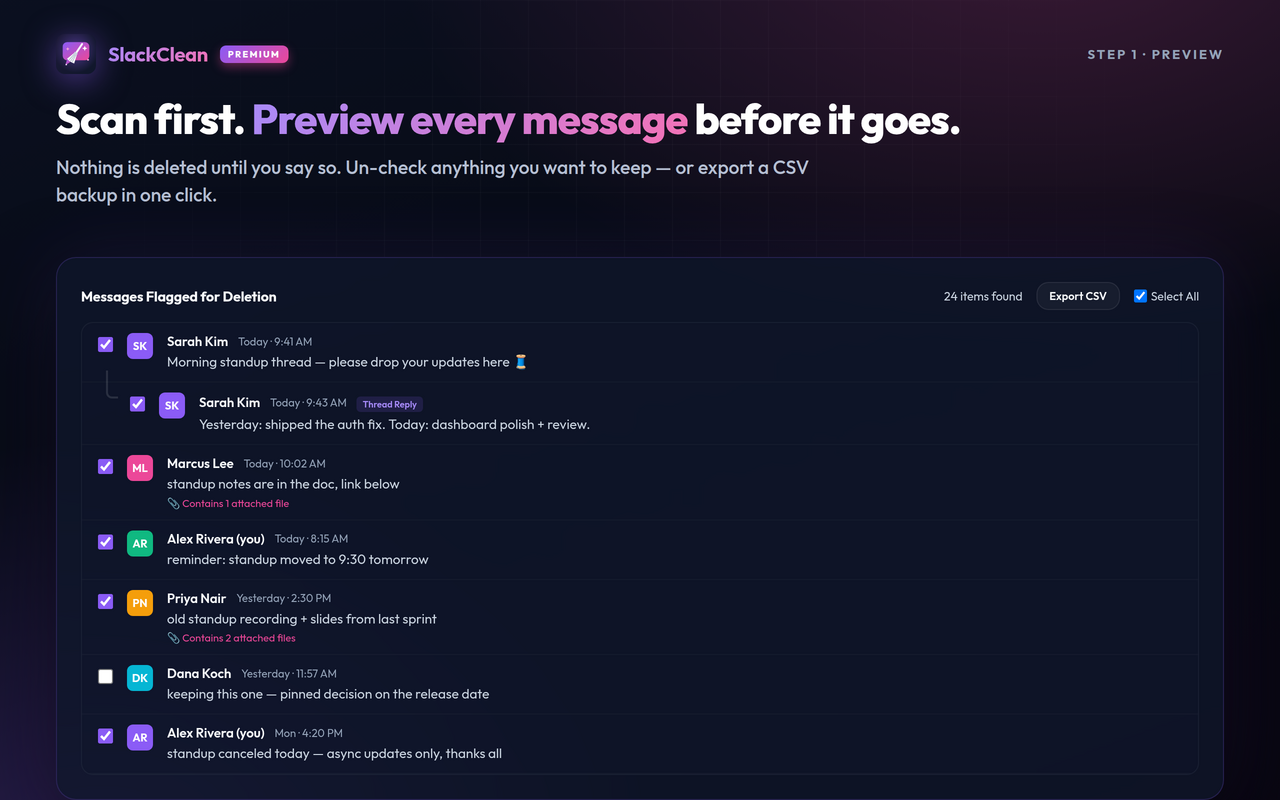
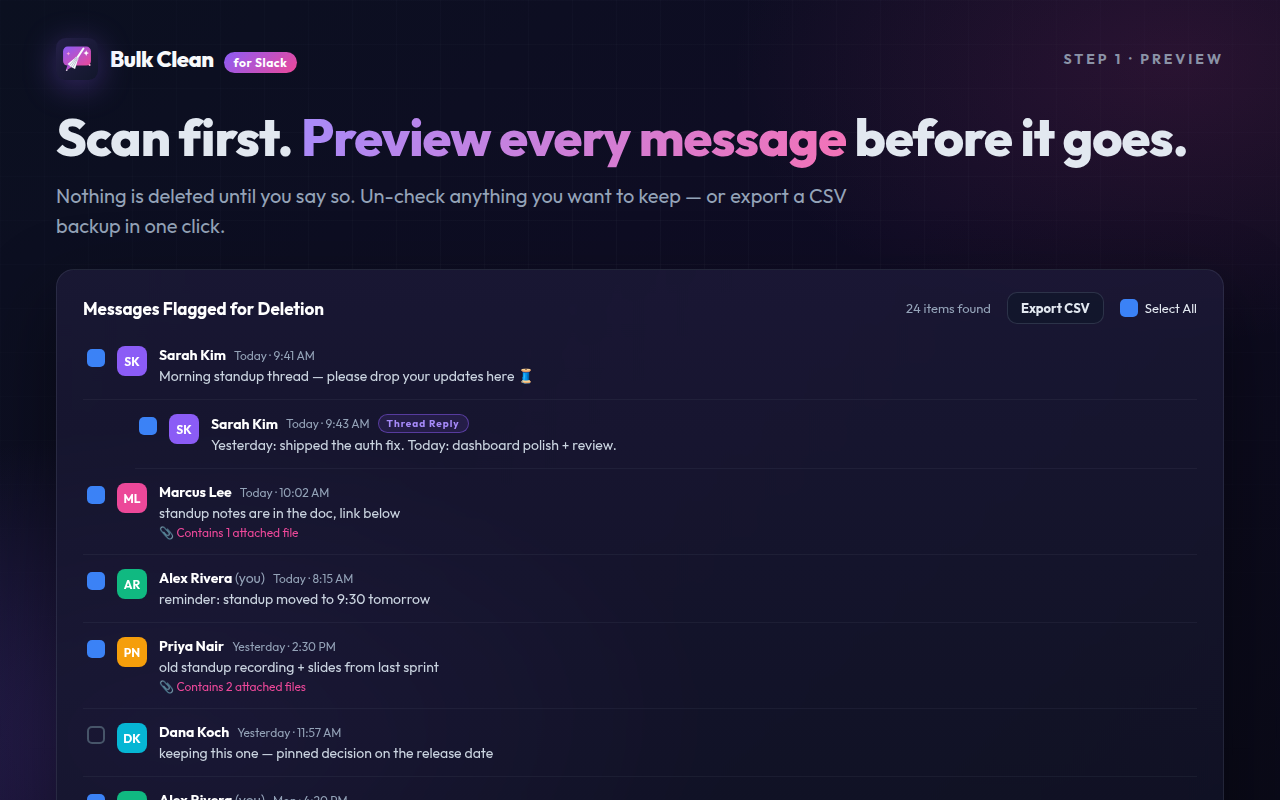
Re-capture store screenshots as 'Bulk Clean for Slack'; update CHANGELOG
All five 1280x800 store screenshots rebuilt with the new branding, plus a portable generator (store-assets/screenshots/src/gen.js) to regenerate them. CHANGELOG documents the fifth functional pass, the Firefox split, and the rename/store-prep work.

diff --git a/store-assets/screenshots/src/gen.js b/store-assets/screenshots/src/gen.js
@@ -1,0 +1,251 @@
+// Generates the 5 store-screenshot compositions (1280x800) with "Bulk Clean for Slack"
+// branding. Faithful recreation of the originals (marketing mockups), using the
+// product's own Outfit font (inlined) so it renders offline.
+const fs = require('fs');
+const path = require('path');
+
+// Regenerate the store screenshots after a branding/content change:
+//   node store-assets/screenshots/src/gen.js      # writes the 5 HTML files here
+//   for s in 01-overview 02-preview 03-safety 04-progress 05-privacy; do \
+//     google-chrome --headless=new --no-sandbox --hide-scrollbars \
+//       --force-device-scale-factor=1 --window-size=1280,800 \
+//       --screenshot="store-assets/screenshots/$s.png" \
+//       "file://$PWD/store-assets/screenshots/src/$s.html"; done
+const ROOT = path.resolve(__dirname, '../../..'); // repo root
+const OUT = __dirname;
+const fontB64 = fs.readFileSync(path.join(ROOT, 'fonts/outfit-variable.woff2')).toString('base64');
+
+// Logo mark (broom + speech bubble), reused from icons/icon.svg, sized via viewBox.
+const LOGO = (size) => `
+<svg width="${size}" height="${size}" viewBox="0 0 512 512" style="flex:0 0 auto;filter:drop-shadow(0 6px 16px rgba(139,92,246,.35))">
+  <defs>
+    <linearGradient id="bub" x1="0" y1="0" x2="1" y2="1"><stop offset="0" stop-color="#8B5CF6"/><stop offset="1" stop-color="#EC4899"/></linearGradient>
+    <linearGradient id="tl" x1="0" y1="0" x2="1" y2="1"><stop offset="0" stop-color="#241F47"/><stop offset="1" stop-color="#12172B"/></linearGradient>
+  </defs>
+  <rect width="512" height="512" rx="118" fill="url(#tl)"/>
+  <rect x="86" y="104" width="340" height="232" rx="56" fill="url(#bub)"/>
+  <path d="M150 300 L118 402 L236 322 Z" fill="url(#bub)"/>
+  <g transform="rotate(34 256 232) translate(6 -6)">
+    <rect x="245" y="96" width="24" height="150" rx="12" fill="#F8FAFC"/>
+    <rect x="234" y="240" width="46" height="26" rx="9" fill="#CBD5E1"/>
+    <path d="M234 266 H280 L312 372 Q257 386 202 372 Z" fill="#F8FAFC"/>
+    <g stroke="#94A3B8" stroke-width="7" stroke-linecap="round"><line x1="245" y1="272" x2="233" y2="368"/><line x1="257" y1="272" x2="257" y2="372"/><line x1="269" y1="272" x2="281" y2="368"/></g>
+  </g>
+  <path d="M368 150 l10 24 24 10 -24 10 -10 24 -10 -24 -24 -10 24 -10 Z" fill="#fff"/>
+  <path d="M150 168 l7 16 16 7 -16 7 -7 16 -7 -16 -16 -7 16 -7 Z" fill="#F9A8D4"/>
+  <circle cx="410" cy="330" r="12" fill="#F9A8D4"/><circle cx="132" cy="392" r="9" fill="#fff" opacity=".9"/>
+</svg>`;
+
+const brand = (nameSize, badgeSize) => `
+<span style="display:inline-flex;align-items:center;gap:12px">
+  ${LOGO(nameSize + 20)}
+  <span style="display:inline-flex;align-items:baseline;gap:10px">
+    <span style="font-weight:800;font-size:${nameSize}px;color:#F8FAFC;letter-spacing:-.5px">Bulk Clean</span>
+    <span style="font-size:${badgeSize}px;font-weight:700;letter-spacing:.5px;padding:3px 10px;border-radius:999px;background:linear-gradient(135deg,#8b5cf6,#ec4899);color:#fff">for Slack</span>
+  </span>
+</span>`;
+
+const CSS = `
+@font-face{font-family:'Outfit';src:url(data:font/woff2;base64,${fontB64}) format('woff2');font-weight:100 900;font-display:block}
+*{box-sizing:border-box;margin:0;padding:0}
+html,body{width:1280px;height:800px;overflow:hidden}
+body{font-family:'Outfit',-apple-system,'DejaVu Sans',sans-serif;color:#e2e8f0;
+  background:
+    radial-gradient(60% 55% at 14% 92%, rgba(139,92,246,.22), transparent 70%),
+    radial-gradient(50% 50% at 92% 8%, rgba(236,72,153,.12), transparent 70%),
+    linear-gradient(135deg,#0b1020 0%,#0f0c24 55%,#0a0a18 100%);
+  position:relative}
+.grid{position:absolute;inset:0;background-image:
+  linear-gradient(rgba(148,163,184,.045) 1px,transparent 1px),
+  linear-gradient(90deg,rgba(148,163,184,.045) 1px,transparent 1px);
+  background-size:44px 44px;-webkit-mask-image:radial-gradient(90% 80% at 50% 30%,#000,transparent)}
+.page{position:relative;padding:38px 56px 0}
+.top{display:flex;justify-content:space-between;align-items:center}
+.tag{font-size:14px;font-weight:700;letter-spacing:3px;color:#8b93a7;text-transform:uppercase}
+h1{font-size:52px;line-height:1.06;font-weight:800;letter-spacing:-1px;margin-top:30px}
+.a{background:linear-gradient(120deg,#a78bfa,#f472b6);-webkit-background-clip:text;background-clip:text;color:transparent}
+.sub{font-size:20px;line-height:1.5;color:#94a3b8;max-width:820px;margin-top:16px;font-weight:400}
+.card{background:linear-gradient(180deg,rgba(30,27,58,.72),rgba(17,20,38,.72));border:1px solid rgba(148,163,184,.14);
+  border-radius:18px;box-shadow:0 30px 80px rgba(0,0,0,.45);backdrop-filter:blur(6px)}
+.pill{display:inline-flex;align-items:center;gap:8px;font-size:15px;font-weight:600;color:#cbd5e1;
+  background:rgba(15,23,42,.7);border:1px solid rgba(148,163,184,.16);border-radius:999px;padding:9px 16px}
+.panelTitle{font-size:16px;font-weight:700;color:#fff;display:flex;align-items:center;gap:9px}
+.panelTitle::before{content:"";width:4px;height:16px;border-radius:2px;background:linear-gradient(#8b5cf6,#ec4899)}
+.lbl{color:#94a3b8;font-size:14px}.val{color:#f1f5f9;font-size:14px;font-weight:700}
+.row{display:flex;justify-content:space-between;align-items:center;padding:9px 0}
+.field label{display:block;color:#94a3b8;font-size:13px;margin-bottom:6px}
+.field .inp{background:rgba(15,23,42,.65);border:1px solid rgba(148,163,184,.18);border-radius:10px;padding:11px 13px;font-size:14px;color:#e2e8f0}
+.badge2{font-size:11px;font-weight:700;letter-spacing:1px;color:#a78bfa;border:1px solid rgba(139,92,246,.5);background:rgba(139,92,246,.12);padding:5px 10px;border-radius:999px}
+.tog{width:46px;height:26px;border-radius:999px;position:relative;flex:0 0 auto}
+.tog i{position:absolute;top:3px;width:20px;height:20px;border-radius:50%;background:#fff}
+.tog.on{background:linear-gradient(135deg,#8b5cf6,#ec4899)}.tog.on i{right:3px}
+.tog.off{background:#334155}.tog.off i{left:3px}
+.btn{font-size:15px;font-weight:700;border-radius:10px;padding:11px 20px;border:1px solid transparent}
+.btn.ghost{background:rgba(15,23,42,.6);border-color:rgba(148,163,184,.2);color:#e2e8f0}
+.btn.grad{background:linear-gradient(135deg,#8b5cf6,#ec4899);color:#fff}
+.btn.red{background:#ef4444;color:#fff}
+.av{width:30px;height:30px;border-radius:8px;display:flex;align-items:center;justify-content:center;font-size:12px;font-weight:700;color:#fff;flex:0 0 auto}
+.chk{width:18px;height:18px;border-radius:5px;flex:0 0 auto}
+.chk.on{background:#3b82f6}.chk.off{background:transparent;border:2px solid #475569}
+code,.mono{font-family:'DejaVu Sans Mono',monospace}
+`;
+
+const page = (bodyInner) => `<!doctype html><html><head><meta charset="utf-8"><style>${CSS}</style></head>
+<body><div class="grid"></div><div class="page">${bodyInner}</div></body></html>`;
+
+const head = (tag, h1html, sub) => `
+<div class="top">${brand(22,12)}${tag?`<div class="tag">${tag}</div>`:'<div></div>'}</div>
+<h1>${h1html}</h1><div class="sub">${sub}</div>`;
+
+// ---------- Slide 1: overview ----------
+const s1 = page(head('',
+  `Bulk-clean your Slack —<br><span class="a">with surgical control.</span>`,
+  `Filter by sender, date, keyword, threads and attachments. Then delete in bulk — from any channel, group, or DM.`) + `
+<div class="card" style="margin-top:30px;padding:26px 30px">
+  <div style="display:grid;grid-template-columns:1fr 1fr;gap:40px">
+    <div>
+      <div class="panelTitle">Session Connection</div>
+      <div style="margin-top:14px">
+        <div class="row"><span class="lbl">Workspace Name</span><span class="val">Acme Corp</span></div>
+        <div class="row"><span class="lbl">Workspace URL</span><span class="val">acme.slack.com</span></div>
+        <div class="row"><span class="lbl">User ID</span><span class="val">U04ACME9Z</span></div>
+        <div class="row"><span class="lbl">Mode</span><span class="val">Safe · Single-Channel</span></div>
+        <div class="row"><span class="lbl">Local Protection</span><span class="badge2">CURRENT CHAT SCOPE</span></div>
+      </div>
+    </div>
+    <div>
+      <div class="panelTitle">Deletion Filter Matrix</div>
+      <div style="display:grid;grid-template-columns:1fr 1fr;gap:14px;margin-top:14px">
+        <div class="field"><label>Sender Profile</label><div class="inp">Only My Messages ▾</div></div>
+        <div class="field"><label>Date Threshold</label><div class="inp">Older than X days ▾</div></div>
+        <div class="field"><label>Text Match (Optional)</label><div class="inp">standup</div></div>
+        <div class="field"><label>Days Old Threshold</label><div class="inp">30</div></div>
+      </div>
+      <div class="row" style="margin-top:8px"><div><div style="color:#fff;font-weight:600;font-size:14px">Include Thread Replies</div><div style="color:#94a3b8;font-size:12px">Scan and delete messages inside threads</div></div><span class="tog on"><i></i></span></div>
+      <div class="row"><div><div style="color:#fff;font-weight:600;font-size:14px">Only Delete Attachments</div><div style="color:#94a3b8;font-size:12px">Deletes files/images but preserves message text</div></div><span class="tog off"><i></i></span></div>
+    </div>
+  </div>
+  <div style="display:flex;justify-content:space-between;align-items:center;margin-top:22px;padding-top:20px;border-top:1px solid rgba(148,163,184,.12)">
+    <div><div style="font-weight:700;color:#fff;font-size:16px">#project-phoenix</div><div style="color:#94a3b8;font-size:13px">Public channel · targeting your messages older than 30 days matching "standup".</div></div>
+    <div style="display:flex;gap:12px"><span class="btn ghost">Scan Messages</span><span class="btn grad">Start Deleting</span></div>
+  </div>
+</div>`);
+
+// ---------- Slide 2: preview ----------
+const msg = (color,ini,name,you,time,text,extra,checked,thread) => `
+<div style="display:flex;gap:12px;align-items:flex-start;padding:14px 4px;border-bottom:1px solid rgba(148,163,184,.08);${thread?'margin-left:52px;':''}">
+  <span class="chk ${checked?'on':'off'}" style="margin-top:3px"></span>
+  <span class="av" style="background:${color}">${ini}</span>
+  <div>
+    <div style="display:flex;align-items:center;gap:8px"><span style="font-weight:700;color:#fff;font-size:14px">${name}${you?' <span style=\"color:#94a3b8;font-weight:400\">(you)</span>':''}</span><span style="color:#94a3b8;font-size:12px">${time}</span>${thread?'<span class="badge2" style="font-size:10px;padding:2px 8px">Thread Reply</span>':''}</div>
+    <div style="color:#cbd5e1;font-size:14px;margin-top:3px">${text}</div>
+    ${extra?`<div style="color:#ec4899;font-size:12px;margin-top:3px">📎 ${extra}</div>`:''}
+  </div>
+</div>`;
+const s2 = page(head('Step 1 · Preview',
+  `Scan first. <span class="a">Preview every message</span> before it goes.`,
+  `Nothing is deleted until you say so. Un-check anything you want to keep — or export a CSV backup in one click.`) + `
+<div class="card" style="margin-top:28px;padding:22px 26px">
+  <div style="display:flex;justify-content:space-between;align-items:center">
+    <div style="font-weight:700;color:#fff;font-size:17px">Messages Flagged for Deletion</div>
+    <div style="display:flex;align-items:center;gap:16px;font-size:13px;color:#94a3b8">
+      <span>24 items found</span><span class="btn ghost" style="padding:7px 13px;font-size:13px">Export CSV</span>
+      <span style="display:inline-flex;align-items:center;gap:7px;color:#e2e8f0"><span class="chk on"></span>Select All</span>
+    </div>
+  </div>
+  <div style="margin-top:8px">
+    ${msg('#8B5CF6','SK','Sarah Kim',false,'Today · 9:41 AM','Morning standup thread — please drop your updates here 🧵','',true,false)}
+    ${msg('#8B5CF6','SK','Sarah Kim',false,'Today · 9:43 AM','Yesterday: shipped the auth fix. Today: dashboard polish + review.','',true,true)}
+    ${msg('#EC4899','ML','Marcus Lee',false,'Today · 10:02 AM','standup notes are in the doc, link below','Contains 1 attached file',true,false)}
+    ${msg('#10B981','AR','Alex Rivera',true,'Today · 8:15 AM','reminder: standup moved to 9:30 tomorrow','',true,false)}
+    ${msg('#F59E0B','PN','Priya Nair',false,'Yesterday · 2:30 PM','old standup recording + slides from last sprint','Contains 2 attached files',true,false)}
+    ${msg('#06B6D4','DK','Dana Koch',false,'Yesterday · 11:57 AM','keeping this one — pinned decision on the release date','',false,false)}
+    ${msg('#10B981','AR','Alex Rivera',true,'Mon · 4:20 PM','standup canceled today — async updates only, thanks all','',true,false)}
+  </div>
+</div>`);
+
+// ---------- Slide 3: safety ----------
+const s3 = page(head('Safety First',
+  `Deletes are permanent — <span class="a">so we make you confirm.</span>`,
+  `Large jobs require you to type <b style="color:#fff">DELETE</b>. Every run can be paused, resumed, or cancelled, and it only ever touches the conversation you chose.`) + `
+<div style="display:flex;gap:14px;margin-top:26px">
+  <span class="pill">✅ Type-to-confirm for 100+ messages</span>
+  <span class="pill">⏸ Pause · Resume · Cancel anytime</span>
+  <span class="pill">🎯 Single-channel scope by default</span>
+</div>
+<div style="display:flex;justify-content:center;margin-top:30px">
+  <div class="card" style="width:520px;padding:28px 30px;border-color:rgba(239,68,68,.35);box-shadow:0 30px 80px rgba(239,68,68,.12)">
+    <div style="font-size:20px;font-weight:800;color:#f87171;display:flex;align-items:center;gap:10px">⚠ Critical Action Verification</div>
+    <div style="color:#cbd5e1;font-size:15px;line-height:1.5;margin-top:14px">You are about to delete more than 100 messages (<b style="color:#fff">128 messages</b>). To confirm this operation, type the word <b style="color:#fff">DELETE</b> below:</div>
+    <div class="inp mono" style="margin-top:18px;text-align:center;letter-spacing:6px;font-size:18px;color:#fff;border-color:rgba(239,68,68,.5);padding:15px">DELETE</div>
+    <div style="display:flex;justify-content:flex-end;gap:12px;margin-top:20px"><span class="btn ghost">Go Back</span><span class="btn red">Confirm Deletion</span></div>
+  </div>
+</div>`);
+
+// ---------- Slide 4: progress ----------
+const C=2*Math.PI*40, off=(C*(1-0.62)).toFixed(1);
+const logln=(c,t)=>`<div style="color:${c};padding:2px 0">${t}</div>`;
+const s4 = page(head('Step 2 · Clean',
+  `Watch it work — <span class="a">live progress &amp; logs.</span>`,
+  `Real-time progress ring, success/failure counts, and a full execution log. Automatically paces itself to respect Slack's rate limits.`) + `
+<div class="card" style="margin-top:28px;padding:22px 26px">
+  <div style="display:flex;justify-content:space-between;align-items:center;padding-bottom:18px;border-bottom:1px solid rgba(148,163,184,.12)">
+    <div><div style="font-weight:700;color:#fff;font-size:16px">🟢 Deleting from #project-phoenix</div><div style="color:#94a3b8;font-size:13px;margin-top:2px">Pacing at 1,000ms between deletes · rate-limit aware · safe to leave running.</div></div>
+    <span class="btn" style="border-color:rgba(239,68,68,.5);color:#f87171;background:rgba(239,68,68,.08)">Cancel</span>
+  </div>
+  <div style="display:grid;grid-template-columns:340px 1fr;gap:22px;margin-top:20px">
+    <div style="display:flex;align-items:center;gap:22px">
+      <svg width="120" height="120" viewBox="0 0 100 100"><circle cx="50" cy="50" r="40" stroke="rgba(255,255,255,.06)" stroke-width="9" fill="none"/><circle cx="50" cy="50" r="40" stroke="url(#pg)" stroke-width="9" fill="none" stroke-linecap="round" stroke-dasharray="${C.toFixed(1)}" stroke-dashoffset="${off}" transform="rotate(-90 50 50)"/><defs><linearGradient id="pg" x1="0" y1="0" x2="1" y2="1"><stop offset="0" stop-color="#8b5cf6"/><stop offset="1" stop-color="#ec4899"/></linearGradient></defs><text x="50" y="56" text-anchor="middle" font-size="20" font-weight="800" fill="#fff" font-family="Outfit">62%</text></svg>
+      <div>
+        <div style="font-weight:700;color:#fff;font-size:16px;margin-bottom:12px">Deleting…</div>
+        <div style="display:flex;gap:18px">
+          <div><div style="font-size:11px;color:#94a3b8;letter-spacing:1px">SUCCESS</div><div style="font-size:22px;font-weight:800;color:#10b981">79</div></div>
+          <div><div style="font-size:11px;color:#94a3b8;letter-spacing:1px">FAILED</div><div style="font-size:22px;font-weight:800;color:#ef4444">0</div></div>
+          <div><div style="font-size:11px;color:#94a3b8;letter-spacing:1px">LEFT</div><div style="font-size:22px;font-weight:800;color:#e2e8f0">49</div></div>
+        </div>
+      </div>
+    </div>
+    <div class="card" style="padding:0;background:rgba(2,6,18,.75)">
+      <div style="display:flex;justify-content:space-between;align-items:center;padding:10px 14px;border-bottom:1px solid rgba(148,163,184,.12);font-size:12px;letter-spacing:1px;color:#94a3b8">EXECUTION LOGS
+        <span style="display:flex;gap:6px">${['CLEAR','EXPORT','RUNNING'].map(x=>`<span style="border:1px solid rgba(148,163,184,.2);border-radius:6px;padding:3px 8px;font-size:11px;color:#cbd5e1">${x}</span>`).join('')}</span>
+      </div>
+      <div class="mono" style="padding:12px 14px;font-size:12.5px;line-height:1.55">
+        ${logln('#60a5fa','Bulk Clean for Slack initialized in Safe (Single-Channel) Mode.')}
+        ${logln('#60a5fa','Scan complete — 128 messages matched active filters.')}
+        ${logln('#34d399','✓ Deleted message ts=1721632841.221 (77/128)')}
+        ${logln('#34d399','✓ Deleted message ts=1721632844.007 (78/128)')}
+        ${logln('#fbbf24','⚠ Rate limit hit — backing off 12s, will auto-resume.')}
+        ${logln('#34d399','✓ Deleted message ts=1721632858.910 (79/128)')}
+        ${logln('#60a5fa','Progress saved · job will survive a browser restart.')}
+      </div>
+    </div>
+  </div>
+</div>`);
+
+// ---------- Slide 5: privacy ----------
+const feat=(ic,t,d)=>`<div style="display:flex;gap:16px;padding:16px 0;border-bottom:1px solid rgba(148,163,184,.1)"><div style="width:40px;height:40px;border-radius:10px;background:rgba(139,92,246,.14);display:flex;align-items:center;justify-content:center;font-size:19px;flex:0 0 auto">${ic}</div><div><div style="font-weight:700;color:#fff;font-size:16px">${t}</div><div style="color:#94a3b8;font-size:14px;margin-top:2px;line-height:1.45">${d}</div></div></div>`;
+const s5 = page(head('Private by Design',
+  `100% local. <span class="a">Nothing leaves your browser.</span>`,
+  `Bulk Clean for Slack runs entirely on your machine using your existing Slack login. There are no accounts, no servers, and no tracking.`) + `
+<div style="display:grid;grid-template-columns:400px 1fr;gap:40px;margin-top:30px">
+  <div class="card" style="padding:26px">
+    ${brand(22,12)}
+    <div style="margin-top:18px"><span style="display:inline-flex;align-items:center;gap:8px;font-size:13px;font-weight:700;color:#34d399;background:rgba(16,185,129,.12);border:1px solid rgba(16,185,129,.3);border-radius:999px;padding:7px 14px">🟢 Slack Web Client Detected</span></div>
+    <div style="margin-top:18px;background:rgba(15,23,42,.55);border:1px solid rgba(148,163,184,.14);border-radius:12px;padding:16px">
+      <div style="font-size:11px;letter-spacing:1.5px;color:#8b93a7">CONNECTED TO WORKSPACE</div>
+      <div style="font-size:20px;font-weight:800;color:#fff;margin-top:5px">Acme Corp</div>
+      <div style="color:#94a3b8;font-size:13px;margin-top:6px">Clean messages in channels, private groups, and direct messages.</div>
+    </div>
+    <div class="btn grad" style="display:block;text-align:center;margin-top:18px;padding:14px">Open Clean Dashboard →</div>
+  </div>
+  <div>
+    ${feat('🔒','All processing is local','Scanning and deleting happen in your browser tab — never on a remote server.')}
+    ${feat('🚫','No data sent anywhere','No analytics, no accounts, no message content uploaded. Ever.')}
+    ${feat('🔑','Uses your existing login','Works through your active Slack session — no passwords or tokens to enter.')}
+    ${feat('📄','Independent &amp; transparent','Not affiliated with Slack. Deletions are permanent and always confirmed by you.')}
+  </div>
+</div>`);
+
+const slides = {'01-overview':s1,'02-preview':s2,'03-safety':s3,'04-progress':s4,'05-privacy':s5};
+for (const [name,html] of Object.entries(slides)) fs.writeFileSync(path.join(OUT, name+'.html'), html);
+console.log('wrote', Object.keys(slides).join(', '));

diff --git a/CHANGELOG.md b/CHANGELOG.md
@@ -1,5 +1,118 @@
 # Changelog
 
+## Unreleased — Release prep: rename + store packaging
+
+Prepared the extension for Chrome Web Store and Firefox AMO submission.
+
+- **Renamed to "Bulk Clean for Slack"** (was "SlackClean Premium"). Leading with "Slack"
+  and using "Premium" (for a free MIT tool) were rejection/trademark risks; the new name
+  follows Slack's sanctioned "X for Slack" form. Applied across both manifests, `_locales`,
+  the dashboard/popup UI (header, badge → "for Slack", onboarding, titles, export
+  filenames), README, PRIVACY_POLICY, SECURITY, STORE_LISTING, `package.json`, the build
+  script, and tests. Internal identifiers (storage keys, DOM ids) were left unchanged.
+- **Project docs added:** `LICENSE` (MIT © 2026 Yogesh Bhatt), `README.md`, `SECURITY.md`,
+  `TERMS.md`, `CONTRIBUTING.md`.
+- **In-extension privacy page** `privacy.html` (styled, CSP-safe) — the popup links to it
+  instead of the raw `.md`; it ships in the package.
+- **Build pipeline:** `scripts/build.sh` (`npm run build`) produces store-ready
+  `dist/bulk-clean-for-slack-{chrome,firefox}-<version>.zip` with the correct manifest
+  per target and only runtime files. `dist/` is gitignored.
+- **Store submission aids:** `store-assets/SUBMISSION_CHECKLIST.md`, Chrome data-use
+  disclosure answers + Firefox notes in `STORE_LISTING.md`, and a 440×280 promo tile
+  (`store-assets/promo/`).
+- **Validated:** Chrome packs a valid `.crx`; `addons-linter` reports **0 errors** on the
+  Firefox zip. **52/52** unit tests green.
+- ⚠ **Follow-ups (outside code):** re-capture store screenshots (current ones show the old
+  branding), host the privacy policy at a public URL, and verify a real delete on live
+  Slack before submitting. See `store-assets/SUBMISSION_CHECKLIST.md`.
+
+## Unreleased — Fifth functional pass (ReDoS, over-select, drift, Firefox, lifecycle)
+
+Fifth audit pass (four parallel deep-traces + runnable repros). Fixes below.
+
+### High — filter safety (`shared-filters.js`)
+
+- **ReDoS guard defeated — a user regex could freeze the whole scan.** The last-line
+  quantifier-COUNT cap (`MAX_QUANTIFIERS = 10`) let sequential unbounded quantifiers
+  through: `a*a*a*…b` has no groups and no adjacent quantifiers, so it slipped every
+  structural rule, yet backtracks polynomially (degree = number of stars). Measured:
+  6 stars = 739 ms and 7 stars = 4.2 s on a 40-char run; 10 stars = a multi-minute
+  hang. Added `MAX_UNBOUNDED_QUANTIFIERS = 2` (counts `*`, `+`, open `{n,}`), which
+  rejects the chain while still accepting legitimate `\d+\.\d+`-style filters; plus a
+  `MAX_REGEX_INPUT` cap on the text a safe regex actually runs against as a backstop.
+- **A regex that matches the empty string silently selected the ENTIRE channel.**
+  `/a?/`, `/x*/`, `/^/`, `/.*/`, `/(secret)?/` all made `qualifies()` return true for
+  every message → mass over-selection from a mistyped filter. A degenerate
+  empty-matching pattern now selects **nothing** (the user sees 0 results and fixes it)
+  instead of everything.
+- **System messages that carry text were not dropped.** `channel_join` / `channel_leave`
+  / `channel_topic` etc. all have `text` ("<@U> has joined"), so the `!msg.text` drop
+  proxy leaked them into a "delete all my messages" run (inflating the fail tally, and
+  over-deleting any subtype Slack lets you delete). Now dropped by an explicit
+  `SYSTEM_MESSAGE_SUBTYPES` allowlist regardless of text; content-bearing subtypes
+  (`me_message`, `thread_broadcast`, `file_share`, …) are preserved.
+- **"me" mode failed OPEN when the user id was missing.** `undefined !== undefined`
+  let a user-less bot/integration message qualify as "mine"; now fails closed.
+
+### High — channel drift (`content.js`)
+
+- **A channel switch DURING a scan defeated the drift guard.** `activeChannel` is
+  reassigned only after an await, so a scan started in channel A that finished as the
+  user switched to B passed the "channel changed" check (it still saw A) and showed
+  A's results armed against B — dispatching a delete for B with A's timestamps, which
+  reported false "success" while A was left uncleaned. Results are now tagged with the
+  channel they were scanned in (`scanResultsChannelId`) and the guard also checks a
+  synchronously-updated `intendedChannelId`; `startDeletionProcess` refuses to dispatch
+  unless both still match the active channel.
+
+### Medium — lifecycle & robustness (`background.js`, `content.js`)
+
+- **Extension update stranded a running job + span the watchdog forever.** `onInstalled`
+  now force-pauses running jobs like `onStartup` (session storage — and the resume
+  gate — is cleared on update), so the job doesn't show "running" while never advancing.
+- **Attachment mode failed an item permanently on one file-op blip.** A transient
+  `files.info`/`files.delete` error now retries like any other transient error instead
+  of counting as an immediate permanent failure.
+- **A dropped scan response hung the UI on "Scanning…" forever.** Added a client-side
+  scan timeout that restores the UI and prompts a retry (an abandoned scan is read-only).
+- **Token-loss / session-invalidation discarded all progress.** Both fatal auth paths
+  now **pause** (preserving queue + progress) instead of deleting the job, matching the
+  "re-open to reconnect, then resume" guidance.
+- **Cancel/Close were fire-and-forget.** Both now check `chrome.runtime.lastError` and
+  tell the user to retry (rather than claiming the job stopped) if the message didn't
+  reach the worker.
+- **A stale/replaced job could destroy or resurrect a new one.** `executeQueue`'s
+  cancellation guard now compares job object identity (not mere key presence); the file
+  sub-loop re-checks before each destructive call; `handleRateLimitBackoff` no longer
+  re-persists a cancelled job.
+- **A black-holed request could pin the queue lock.** Added a `fetch` AbortController
+  timeout (surfaces as a retryable `network_error`).
+- **Wrong-workspace resolution.** `getActiveTeamInfo` now returns null (rather than
+  silently using the first workspace) when the URL names a team we have no token for.
+- **Non-numeric date bounds** are normalized to the open bound (was NaN → inconsistent
+  partial selection). `CIRCLE_CIRCUMFERENCE` uses the exact `2πr`. `popup.js` uses the
+  existing i18n key for its fallback workspace label.
+
+### Cross-browser — Firefox (`manifest.json`, new `manifest.firefox.json`)
+
+- **The extension was entirely non-functional on Firefox.** `manifest.json` advertised
+  Firefox (gecko, min 115) but declared a `service_worker` background — unsupported on
+  Firefox stable — with no `background.scripts`, so `shared-filters.js` never loaded and
+  every message handler threw. Split into two manifests: **`manifest.json` (Chromium,
+  `service_worker` + `importScripts`)** and **`manifest.firefox.json` (Firefox, event
+  page with `background.scripts: ["shared-filters.js", "background.js"]` + gecko)**. The
+  misleading in-code comments are corrected. The Firefox manifest also declares
+  `browser_specific_settings.gecko.data_collection_permissions: { required: ["none"] }`
+  (no data collected — required by AMO for new submissions).
+  **Packaging:** Chrome build → use `manifest.json`, exclude `manifest.firefox.json`.
+  Firefox (AMO) build → copy `manifest.firefox.json` to `manifest.json`, exclude the
+  Chrome `manifest.json`.
+
+`npm test` → **52/52** (5 new regression tests). Manifests validated: Chrome packs a
+valid `.crx` with no manifest error (`google-chrome --pack-extension`); `addons-linter`
+(Firefox/AMO) reports **0 errors** on the Firefox build (only benign notices that the
+data-collection key activates on Firefox 140+ while we still support 115+ ESR).
+
 ## Unreleased — Data-loss scope, workspace switching & scan completeness
 
 Fourth functional pass. Focused audit of the delete/keep decision, scan↔delete
